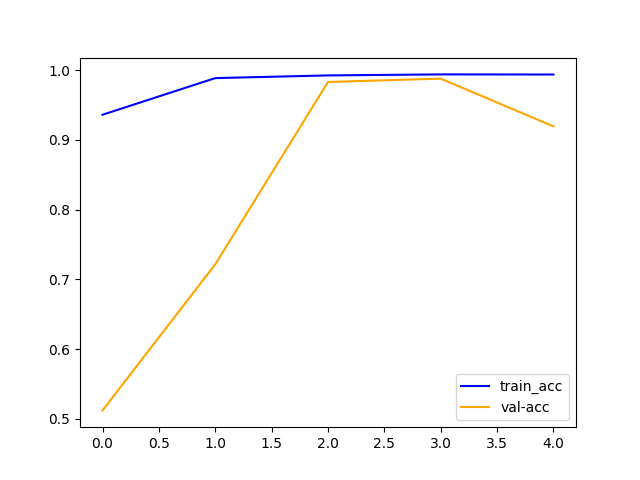
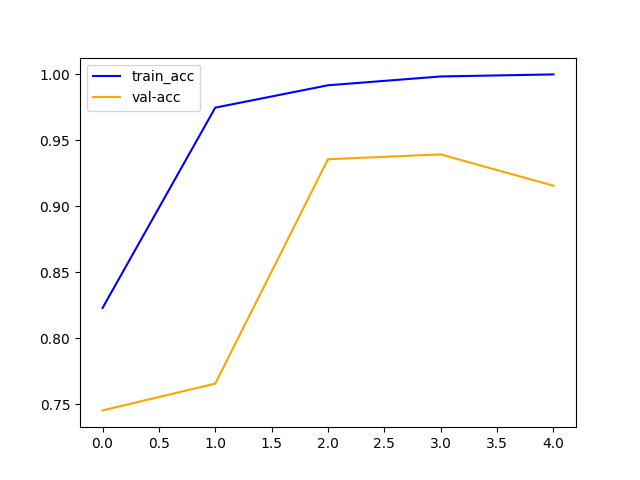
new model run

diff --git a/ml_section/model_training/pre_processing.py b/ml_section/model_training/pre_processing.py
@@ -6,10 +6,77 @@ from keras.utils import to_categorical
 # from keras.utils import to_categorical
 from keras.preprocessing.text import Tokenizer
 from keras_preprocessing.sequence import pad_sequences
+import re
+import contractions
+import nltk
+from nltk.stem import WordNetLemmatizer
+from nltk.corpus import wordnet
+lemmatizer = WordNetLemmatizer()
+nltk.download('words') #download list of english words
+nltk.download('stopwords') #download list of stopwords
+nltk.download('averaged_perceptron_tagger')
+nltk.download('wordnet')
+from nltk.corpus import stopwords
+stopWords = stopwords.words('english')
+englishWords = set(nltk.corpus.words.words())
+from nltk.tokenize import RegexpTokenizer
+import pandas as pd
+tokenizer = RegexpTokenizer(r'\w+')
+
+
+def remove_stopWords(tokens):
+    return [w for w in tokens if (w in englishWords and w not in stopWords)]
+
+
+# Convert the nltk pos tags to tags that wordnet can recognize
+def nltkToWordnet(nltk_tag):
+  if nltk_tag.startswith('J'):
+    return wordnet.ADJ
+  elif nltk_tag.startswith('V'):
+    return wordnet.VERB
+  elif nltk_tag.startswith('N'):
+    return wordnet.NOUN
+  elif nltk_tag.startswith('R'):
+    return wordnet.ADV
+  else:
+    return None
+
+
+# Lemmatize a list of words/tokens
+def lemmatize(tokens):
+  pos_tags = nltk.pos_tag(tokens)
+  res_words = []
+  for word, tag in pos_tags:
+    tag = nltkToWordnet(tag)
+    if tag is None:
+      res_words.append(word)
+    else:
+      res_words.append(lemmatizer.lemmatize(word, tag))
+  return res_words
+
+
+def removeUrl(text):
+    text = re.sub(r'http\S+', '', text.lower())
+    return text
+
+
+def remove_contractions(text): 
+    return ' '.join([contractions.fix(word) for word in text.split()])
+
+
+def remove_stopwords_and_url(text):
+    text = text.lower()
+    text = re.sub(r'http\S+', '', text.lower())
+    text = ' '.join([contractions.fix(word) for word in text.split()])
+    tokens = tokenizer.tokenize(text)
+    tokens = lemmatize(tokens)
+    tokens = remove_stopWords(tokens)
+    data = ' '.join(tokens)
+    return data
 
 
 # SPLITTING
-def split_data(dataframe, train_ration, val_ration):
+def split_data(dataframe, train_ration=0.4, val_ration=0.3):
     _true = dataframe.loc[dataframe.Fake == 0]
     _false = dataframe.loc[dataframe.Fake == 1]
 
@@ -40,6 +107,12 @@ def data_preprocessing(df, df_real, train_ration=0.4, val_ration=0.3):
     df_news['title_text'] = df['title'] + ' - ' + df['text']
 
     df_news = df_news[['title_text', 'Fake']]
+    
+    # CLEAN UP DATA
+    df_news['title_text'] = df_news['title_text'].apply(lambda x: remove_stopwords_and_url(x))
+    print(df_news.head())
+    
+
 
     # news = np.array(df_news['title_text'])
 
@@ -53,7 +126,11 @@ def data_preprocessing(df, df_real, train_ration=0.4, val_ration=0.3):
     validation_text = np.array(validation['title_text'])
     validation_label = np.array(validation['Fake'])
     test_text = np.array(test['title_text'])
+
     test_label = np.array(test['Fake'])
+    # measurer = np.vectorize(len)
+    # max_len = \
+    #     measurer(df_news['title_text'].values.astype(str)).max(axis=0)
 
     # TOKENIZING
     tokenizer = Tokenizer(num_words=10000, oov_token='<OOV>')
@@ -85,7 +162,7 @@ def data_preprocessing(df, df_real, train_ration=0.4, val_ration=0.3):
     print('Max article word length:', max_len_test)
     '''
 
-    max_len = 1000
+    max_len = 3000
     padded_train_sequences = pad_sequences(train_sequences, maxlen=max_len)
     padded_val_sequences = pad_sequences(val_sequences, maxlen=max_len)
     padded_test_sequences = pad_sequences(test_sequences, maxlen=max_len)
@@ -120,12 +197,33 @@ def preprocessing(train_ration=None, val_ration=None):
 
 def preprocessing_for_test():
 
-    df = pd.read_csv('dataset/fake-and-real-news-dataset/Fake.csv')
+    df = pd.read_csv('dataset/fake-and-real-news-dataset/Fake_pre.csv')
     df['Fake'] = 1
 
-    df_real = pd.read_csv('dataset/fake-and-real-news-dataset/True.csv')
+    df_real = pd.read_csv('dataset/fake-and-real-news-dataset/True_pre.csv')
     df_real['Fake'] = 0
 
     padded_train_sequences, padded_val_sequences, padded_test_sequences, train_label, validation_label, test_label, word_index = data_preprocessing(df, df_real)  # noqa:E501
 
     return (padded_test_sequences, test_label)
+
+
+def text_pre():
+    import re
+    with open('dataset/fake-and-real-news-dataset/Fake.csv', 'r', encoding='utf-8') as fake_file:
+        fake_content = fake_file.read()
+    lower_case_fake = fake_content.lower()
+    del_url_fake = re.sub('https:\/\/.*|http:\/\/.*', '', lower_case_fake)
+    with open('dataset/fake-and-real-news-dataset/Fake_pre.csv', 'w', encoding='utf-8') as fake_file:
+        fake_file.write(del_url_fake)
+
+    with open('dataset/fake-and-real-news-dataset/True.csv', 'r', encoding='utf-8') as real_file:
+        real_content = real_file.read()
+    lower_case_real = real_content.lower()
+    del_url_real = re.sub('https:\/\/.*|http:\/\/.*', '', lower_case_real)
+    with open('dataset/fake-and-real-news-dataset/True_pre.csv', 'w', encoding='utf-8') as real_file:
+        real_file.write(del_url_real)
+
+
+if __name__ == '__main__':
+    preprocessing_for_test()

diff --git a/ml_section/model_training/model_training.py b/ml_section/model_training/model_training.py
@@ -4,37 +4,39 @@ import matplotlib.pyplot as plt
 from ml_section.model_training.pre_processing import preprocessing
 from ml_section.model_testing.model_testing import test_model_trained
 
-gpus = tf.config.experimental.list_physical_devices("GPU")
+gpus = tf.config.list_physical_devices('GPU')
 if gpus:
-    # Restrict TensorFlow to only use the first GPU
-    try:
-        for gpu in gpus:
-            tf.config.experimental.set_memory_growth(gpu, False)
-            tf.config.experimental.set_virtual_device_configuration(
-                gpu,
-                [
-                    tf.config.experimental.VirtualDeviceConfiguration(
-                        memory_limit=12288  # set your limit
-                    )
-                ],
-            )
-        tf.config.experimental.set_visible_devices(gpus[0], "GPU")
-        logical_gpus = tf.config.experimental.list_logical_devices("GPU")
-        print(len(gpus), "Physical GPUs,", len(logical_gpus), "Logical GPU")
-    except RuntimeError as e:
-        # Visible devices must be set before GPUs have been initialized
-        print(e)
-
+  # Restrict TensorFlow to only use the first GPU
+  try:
+    tf.config.set_visible_devices(gpus, 'GPU')
+    logical_gpus = tf.config.list_logical_devices('GPU')
+    print(len(gpus), "Physical GPUs,", len(logical_gpus), "Logical GPU")
+  except RuntimeError as e:
+    # Visible devices must be set before GPUs have been initialized
+    print(e)
 
 def train_model():
 
     # PRE-PROCESS DATA
-    padded_train_sequences, padded_val_sequences, padded_test_sequences, train_label, validation_label, test_label, word_index = preprocessing(train_ration=0.1, val_ration=0.1)  # noqa: E501
+    padded_train_sequences, padded_val_sequences, padded_test_sequences, train_label, validation_label, test_label, word_index = preprocessing(train_ration=0.05, val_ration=0.1)  # noqa: E501
     vocab_size = 10000
+    # vocab_size = len(word_index)
+    with open("word_index.json", "w") as file:
+      import json
+      # Serializing json
+      json_object = json.dumps(word_index, indent=4)
+      file.write(json_object)
     print(word_index)
     # len(word_index) # this variable only represents
     # how many vacalary form the word index we have used
     # to tokenize the sentences
+    
+    # model.add(tf.keras.layers.Bidirectional(
+    #             tf.keras.layers.LSTM(64, return_sequences=True)))
+    # model.add(tf.keras.layers.Bidirectional(
+    #             tf.keras.layers.LSTM(32, return_sequences=True)))
+    # model.add(tf.keras.layers.Bidirectional(
+    #             tf.keras.layers.LSTM(64, return_sequences=True)))
 
     dimesions = 16
     tf.keras.backend.clear_session()
@@ -42,12 +44,6 @@ def train_model():
     model.add(tf.keras.layers.Embedding(vocab_size, dimesions))
     model.add(tf.keras.layers.Bidirectional(
                 tf.keras.layers.LSTM(32, return_sequences=True)))
-    model.add(tf.keras.layers.Bidirectional(
-                tf.keras.layers.LSTM(64, return_sequences=True)))
-    model.add(tf.keras.layers.Bidirectional(
-                tf.keras.layers.LSTM(32, return_sequences=True)))
-    model.add(tf.keras.layers.Bidirectional(
-                tf.keras.layers.LSTM(64, return_sequences=True)))
     model.add(tf.keras.layers.BatchNormalization())
     model.add(tf.keras.layers.Bidirectional(tf.keras.layers.LSTM(64)))
     model.add(tf.keras.layers.Dropout(0.2))
@@ -79,7 +75,7 @@ def train_model():
     plt.plot(val_loss, 'orange', label='val_loss')
 
     plt.legend()
-    plt.savefig(f'LOSS_train-{2}_test-{6}_epoch-{epochs}_vocab_size-{vocab_size}.png')  # noqa:E501
+    plt.savefig(f'LOSS_train-{2}_test-{6}_epoch-{epochs}_vocab_size-{vocab_size}_pre.png')  # noqa:E501
     plt.show()
 
     acc = history.history['accuracy']
@@ -89,7 +85,7 @@ def train_model():
     plt.plot(val_acc, 'orange', label='val-acc')
 
     plt.legend()
-    plt.savefig(f'LEARNING_train-{2}_test-{6}_epoch-{epochs}_vocab_size-{vocab_size}.png')  # noqa:E501
+    plt.savefig(f'LEARNING_train-{2}_test-{6}_epoch-{epochs}_vocab_size-{vocab_size}_pre.png')  # noqa:E501
     plt.show()
 
     # TEST MODEL
